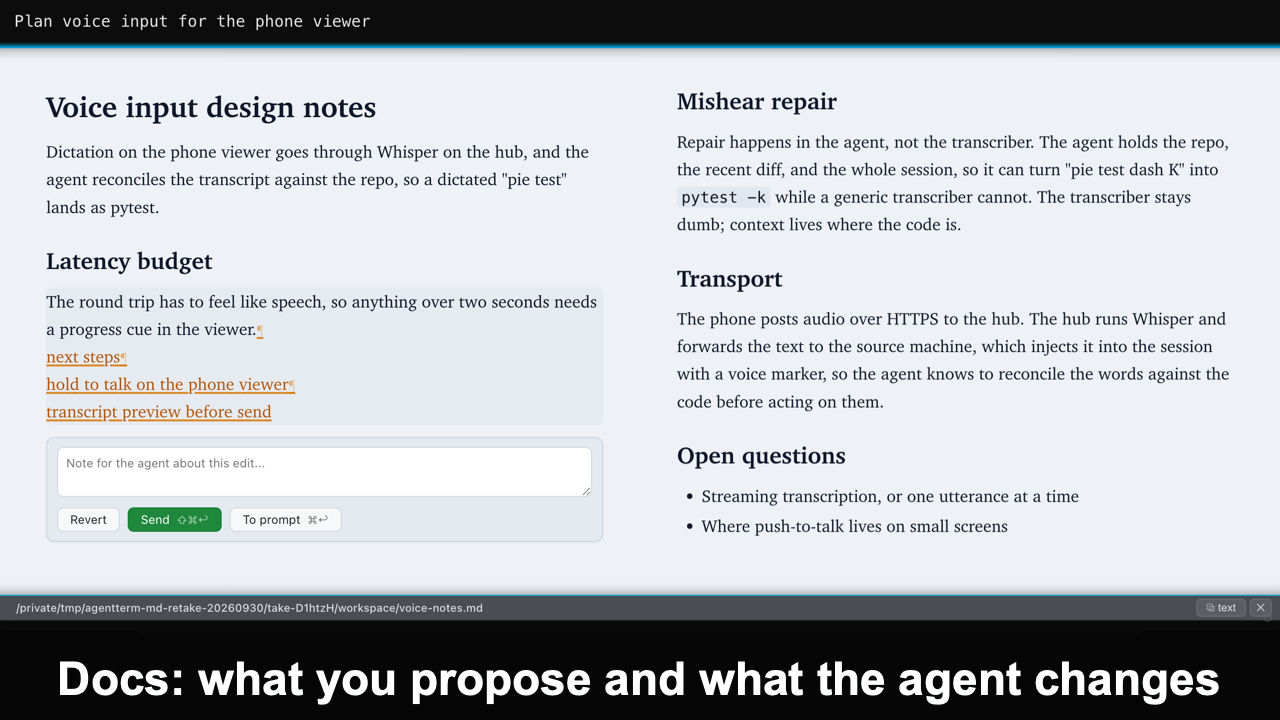
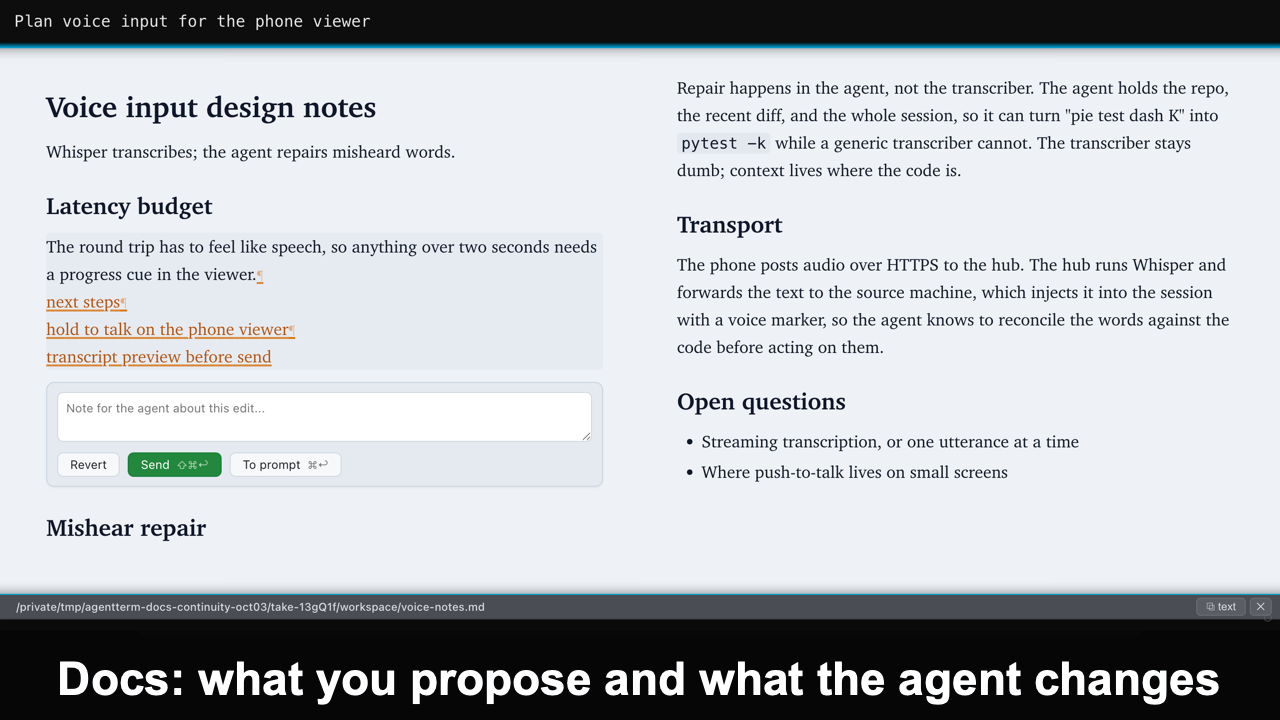
Keep document demo aligned through the agent handoff
Shorten the example introduction so all three document states share the same reading position. Refresh GIF and still URLs for cache invalidation.

diff --git a/README.md b/README.md
@@ -11,9 +11,9 @@
 
 Expand each AI CLI session into a rich visual workspace for the new way of working *(autoplays after loading)*:
 
-[![stills from the terminal: session tiles, the picker, commenting on output, writing on a plan, a curated review, and phone status and session views](docs/assets/hero-demo-aed4fc631ccb.gif)](https://raw.githubusercontent.com/albertwujj/agent-term/main/docs/assets/hero-demo-aed4fc631ccb.gif)
+[![stills from the terminal: session tiles, the picker, commenting on output, writing on a plan, a curated review, and phone status and session views](docs/assets/hero-demo-971d228eea7d.gif)](https://raw.githubusercontent.com/albertwujj/agent-term/main/docs/assets/hero-demo-971d228eea7d.gif)
 
-*View a frame:* [Tell apart 1](https://raw.githubusercontent.com/albertwujj/agent-term/main/docs/assets/frames/sessions-1.png?v=b9db6f3e800b) · [Tell apart 2](https://raw.githubusercontent.com/albertwujj/agent-term/main/docs/assets/frames/sessions-2.png?v=e2686508a818) · [Resume](https://raw.githubusercontent.com/albertwujj/agent-term/main/docs/assets/frames/resume.png) · [Comment](https://raw.githubusercontent.com/albertwujj/agent-term/main/docs/assets/frames/comment.png) · [Docs 1](https://raw.githubusercontent.com/albertwujj/agent-term/main/docs/assets/frames/docs-1.png) · [Docs 2](https://raw.githubusercontent.com/albertwujj/agent-term/main/docs/assets/frames/docs-2.png) · [Docs 3](https://raw.githubusercontent.com/albertwujj/agent-term/main/docs/assets/frames/docs-3.png) · [Code 1](https://raw.githubusercontent.com/albertwujj/agent-term/main/docs/assets/frames/code-1.png) · [Code 2](https://raw.githubusercontent.com/albertwujj/agent-term/main/docs/assets/frames/code-2.png) · [Code 3](https://raw.githubusercontent.com/albertwujj/agent-term/main/docs/assets/frames/code-3.png) · [Phone 1](https://raw.githubusercontent.com/albertwujj/agent-term/main/docs/assets/frames/phone-1-e58c3dbfe6c6.png) · [Phone 2](https://raw.githubusercontent.com/albertwujj/agent-term/main/docs/assets/frames/phone-2-1266e3d01d5d.png).
+*View a frame:* [Tell apart 1](https://raw.githubusercontent.com/albertwujj/agent-term/main/docs/assets/frames/sessions-1.png?v=b9db6f3e800b) · [Tell apart 2](https://raw.githubusercontent.com/albertwujj/agent-term/main/docs/assets/frames/sessions-2.png?v=e2686508a818) · [Resume](https://raw.githubusercontent.com/albertwujj/agent-term/main/docs/assets/frames/resume.png) · [Comment](https://raw.githubusercontent.com/albertwujj/agent-term/main/docs/assets/frames/comment.png) · [Docs 1](https://raw.githubusercontent.com/albertwujj/agent-term/main/docs/assets/frames/docs-1.png?v=e64928d57d17) · [Docs 2](https://raw.githubusercontent.com/albertwujj/agent-term/main/docs/assets/frames/docs-2.png?v=eaf87d5808f8) · [Docs 3](https://raw.githubusercontent.com/albertwujj/agent-term/main/docs/assets/frames/docs-3.png?v=08a1a3cecb05) · [Code 1](https://raw.githubusercontent.com/albertwujj/agent-term/main/docs/assets/frames/code-1.png) · [Code 2](https://raw.githubusercontent.com/albertwujj/agent-term/main/docs/assets/frames/code-2.png) · [Code 3](https://raw.githubusercontent.com/albertwujj/agent-term/main/docs/assets/frames/code-3.png) · [Phone 1](https://raw.githubusercontent.com/albertwujj/agent-term/main/docs/assets/frames/phone-1-e58c3dbfe6c6.png) · [Phone 2](https://raw.githubusercontent.com/albertwujj/agent-term/main/docs/assets/frames/phone-2-1266e3d01d5d.png).
 
 *Dive deeper:* [Tell apart](docs/sessions.md#switch-to-the-right-running-session) · [Resume](docs/sessions.md#find-and-resume-sessions) · [Comment](docs/comment.md) · [Docs](docs/plan.md) · [Code](docs/review.md) · [Phone](docs/phone.md).
 
